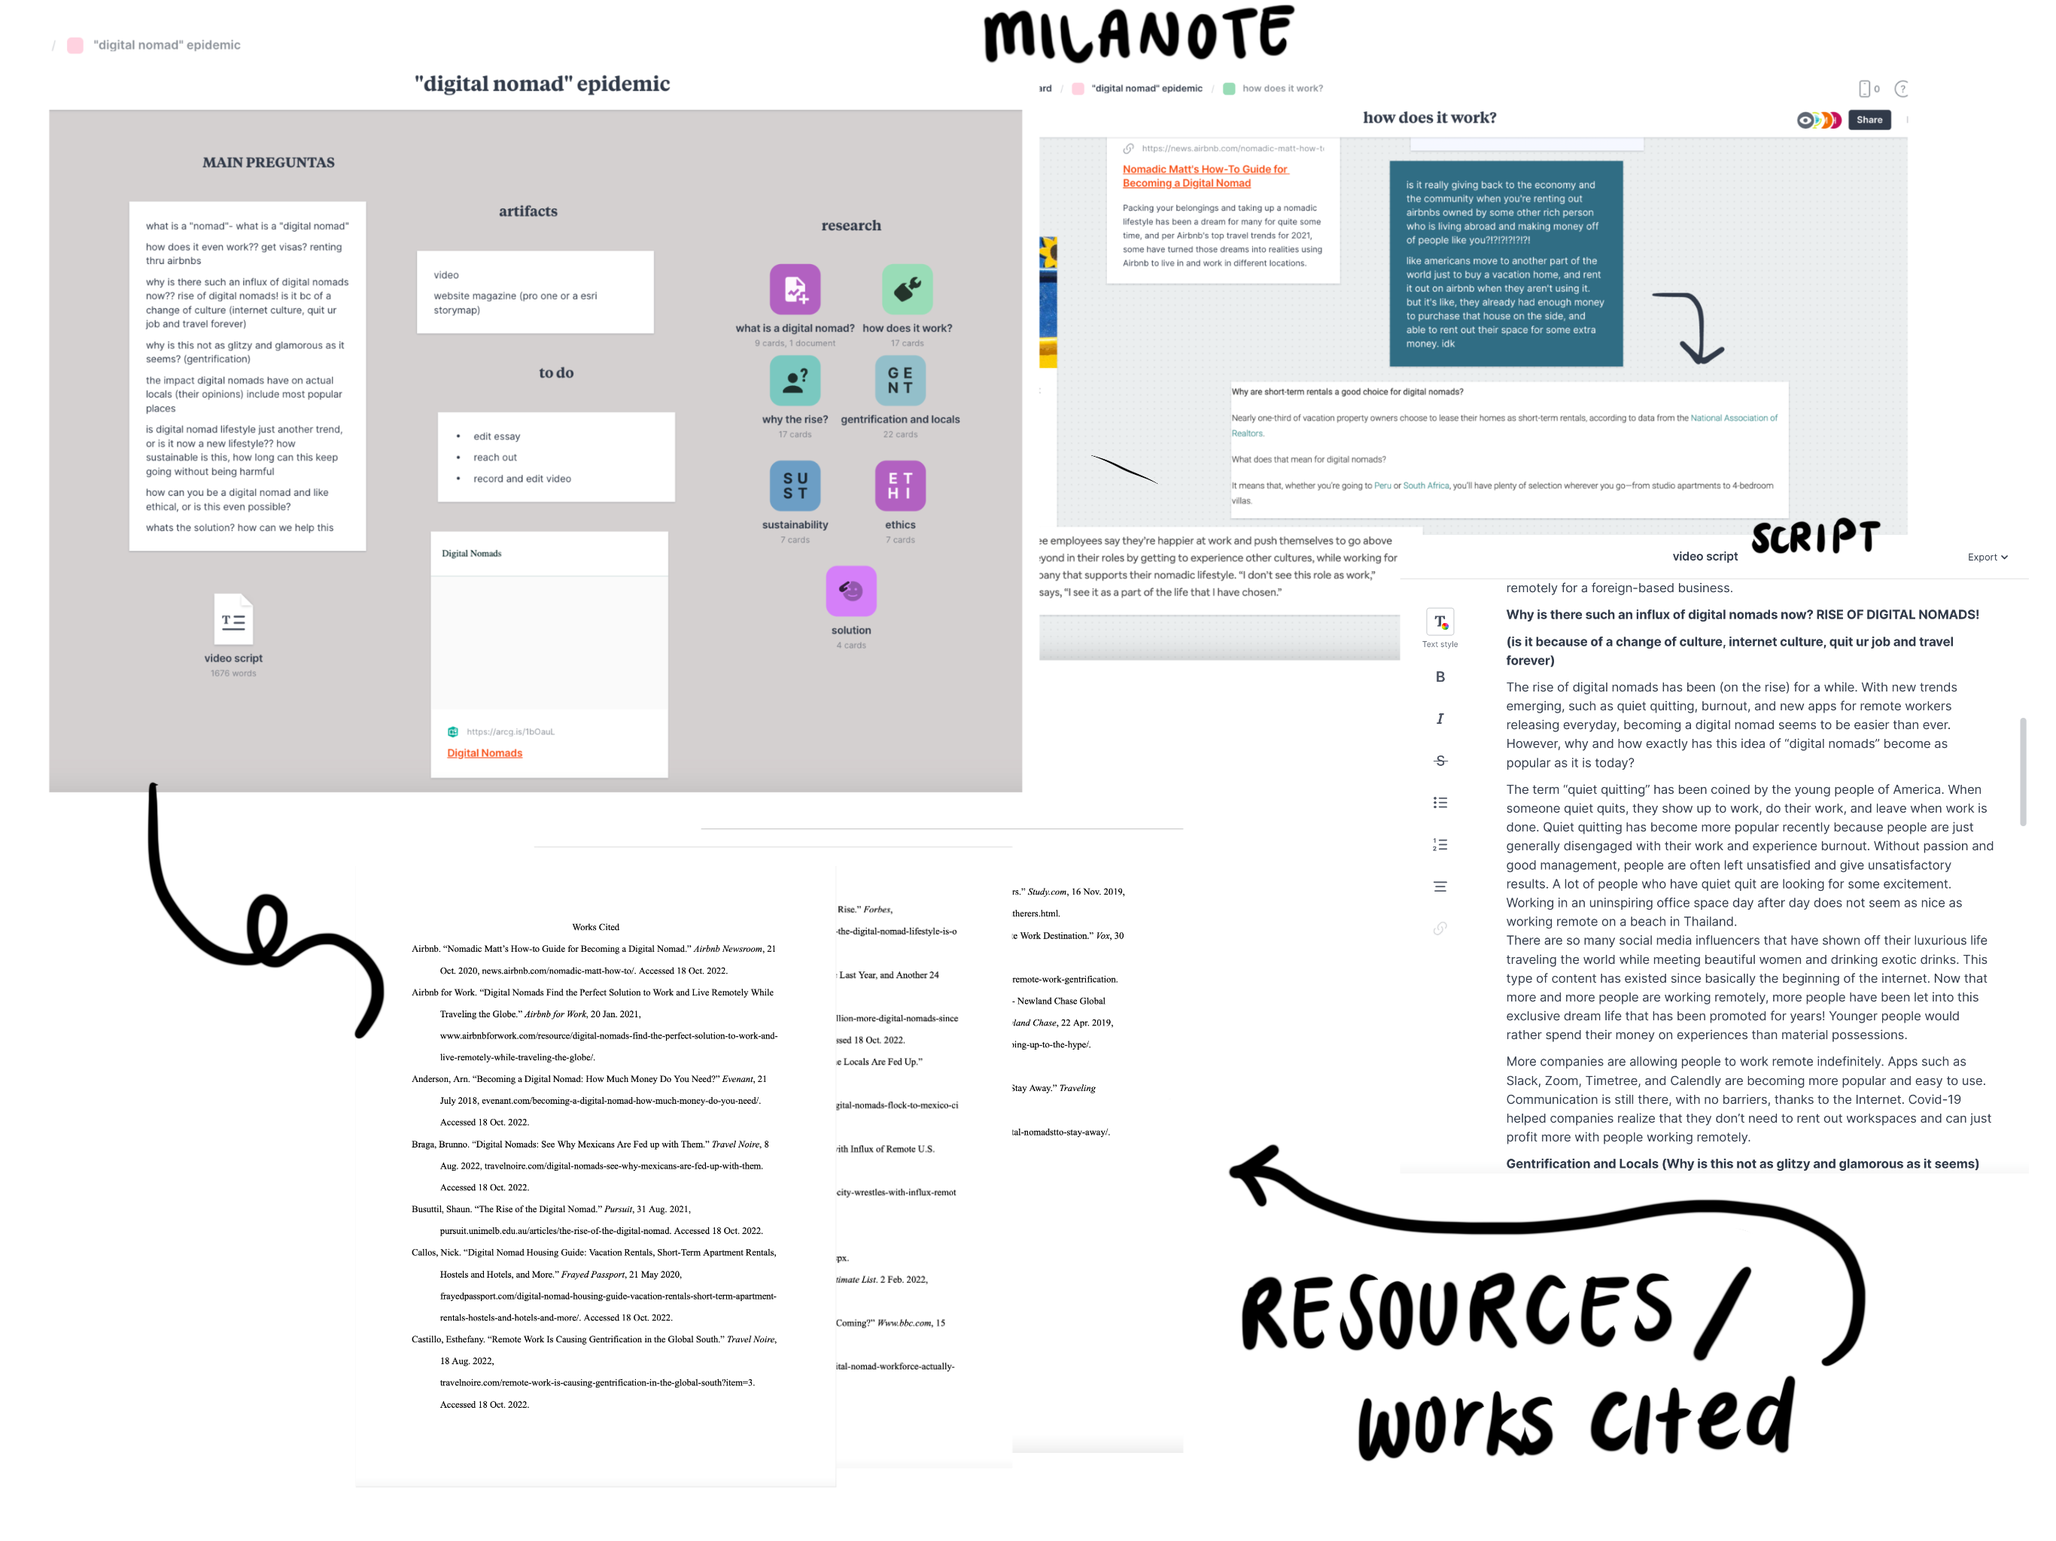
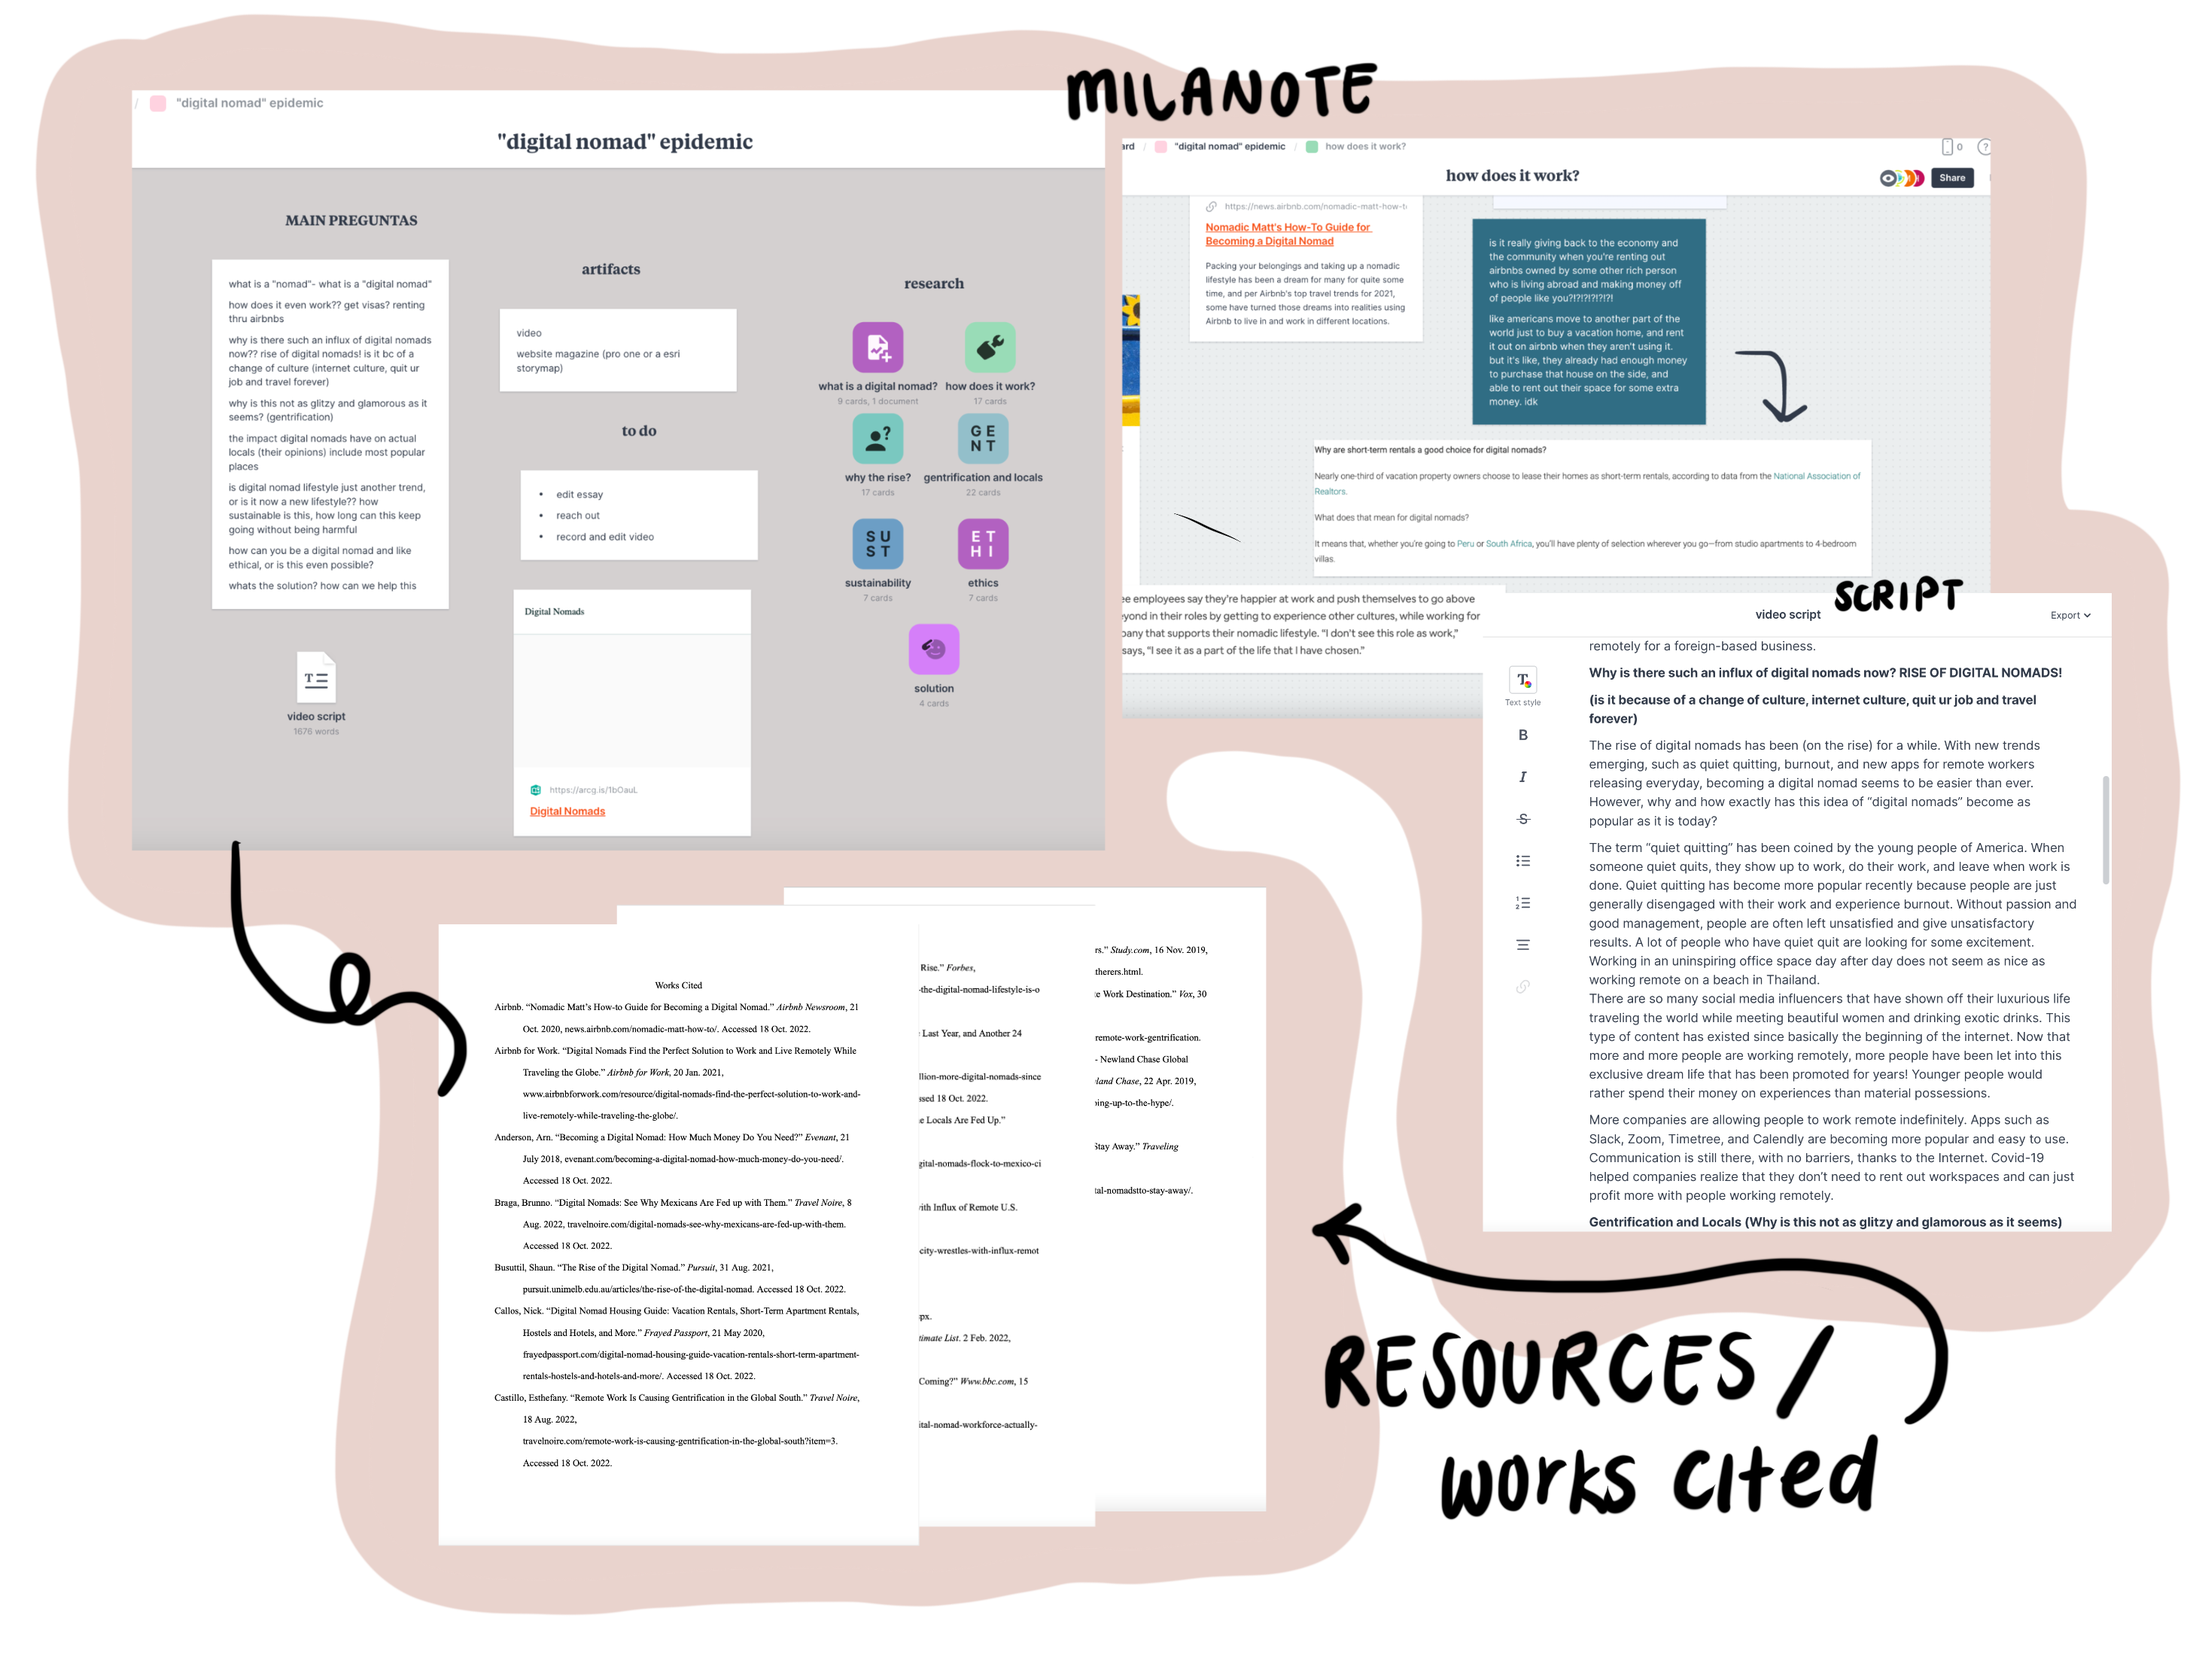
finished digital nomads

diff --git a/individualProjects/digitalnomad/digitalNomad.html b/individualProjects/digitalnomad/digitalNomad.html
@@ -42,29 +42,38 @@
                 </div>
             </div>
 
-            <div class="sectionSpacing"></div>
-            <div class="finalGroup">
-                <h2 class="finalTitle">final product</h2>
-                <a href="https://storymaps.arcgis.com/stories/4513bbf4a1924abdadcff8714842fc4c" style="color: #E8998D" class="websitelink">link to website</a>
-
-                <iframe src="https://storymaps.arcgis.com/stories/4513bbf4a1924abdadcff8714842fc4c" width="100%" height="500px" frameborder="0" allowfullscreen allow="geolocation" style="margin-top: 2vh"></iframe>
-            </div>
-
-            <div class="sectionSpacing"></div>
-
-            <div class="step1">
-                <h2 class="finalTitle">research</h2>
-                <img src="photos/research.PNG" style="width: 60vw">
-                <!-- research (milanote and script and spotify-->
-
-                <div class="space1"></div>
-                <a href="https://app.milanote.com/1OpQBi1CC2dJbf?p=fjMi66KtDxc" style="color: #E8998D; margin-left: 10vw" class="websitelink">link to research Milanote</a>
-                <iframe src="https://app.milanote.com/1OpQBi1CC2dJbf?p=fjMi66KtDxc" width="100%" height="500" frameborder="0"></iframe>
-            </div>
-
-            <div class="space1"></div>
-        
+            <div style="margin-top: 15vh"></div>
         </section>
+
+        <div class="finalGroup">
+            <div class="finalBeginning">   
+                <div class="individual">
+                    <div class="title">
+                        <h2>final product.</h2>
+                        <h4>Click on the image to go to the website!</h4>
+                        <div style="margin-bottom: 2vh"></div>
+                    </div>
+                    <div class="links">
+                        <a href="https://storymaps.arcgis.com/stories/4513bbf4a1924abdadcff8714842fc4c" class="link">
+                            <img src="photos/final.png" style="width: 100%">
+                        </a>
+                    </div>
+                </div>
+                
+                <div style="margin-top: 9vh"></div>
+
+                <div class="individual">
+                    <div class="title">
+                        <h2>research.</h2>
+                        <h4>I used Milanote to organize all of my research. Click on the image to go to the Milanote.</h4>
+                    </div>
+                    <div class="links">
+                        <a href="https://app.milanote.com/1OpQBi1CC2dJbf?p=fjMi66KtDxc" class="link">
+                            <img src="photos/research.png" style="width: 100%">
+                        </a>
+                    </div>
+                </div>
+        </div>
 
 
         <footer>

diff --git a/individualProjects/digitalnomad/digitalNomadStyle.css b/individualProjects/digitalnomad/digitalNomadStyle.css
@@ -140,7 +140,7 @@ h1 {
 }
 
 .sectionSpacing {
-    margin-bottom: 10vh;
+    margin-bottom: 6vh;
 }
 
 p {
@@ -159,19 +159,49 @@ p {
     font-family: BobbyJonesSoft;
     font-size: 22px;
 }
-.finalBeginning {
-    margin-bottom: 20px;
-}
 
-.finalGroup {
-    margin-left: 5vw;
-}
 
 img {
     margin: 0;
 }
 
 
+.finalGroup {
+    margin-left: 15vw;
+    margin-right: 10vw;
+}
+
+.finalBeginning {
+    margin-left: 10vw;
+}
+
+h2 {
+    color: #E8998D;
+    font-family: "BobbyJonesSoft";
+    font-size: 35px;
+    margin: 0;
+    margin-bottom: 1vh;
+}
+
+h4 {
+    margin: 0;
+    color: black;
+    font-family: Inter;
+    font-size: 1.2vw;
+    margin-left: 2vw;
+    margin-right: 2vw;
+}
+
+.individual {
+    display: flex;
+}
+.links {
+    flex: 60%;
+}
+.title {
+    flex: 40%;
+    padding: 70px 0;
+}
 /* colors:
     cream: FBF7F4
     brown: A1683A
